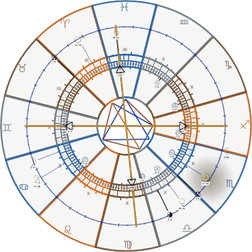
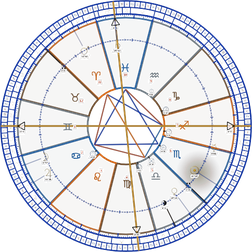
Astro Hellenic colorido: agora é o Astro Hellenic comum com cor (e não o reto)
Claude-Session: https://claude.ai/code/session_013ytyeKms5FAEPqSHvHBsyR

diff --git a/configuracoes.js b/configuracoes.js
@@ -186,7 +186,7 @@ function htmlCfgAparencia() {
         <div class="cfg-opcoes">
           ${opcao("salvarEstiloMandala('astrohellenic_reto')", estiloMandalaEscolhido === 'astrohellenic_reto', miniMandala('astrohellenic_reto'), 'Estilo Astro Hellenic', 'Faixa do zodíaco com os planetas dentro, linhas retas')}
           ${opcao("salvarEstiloMandala('comum')", estiloMandalaEscolhido === 'comum', miniMandala('comum'), 'Estilo comum', 'Signos e casas por dentro, planetas na eclíptica, régua de graus com termos e dodecatemória por fora')}
-          ${opcao("salvarEstiloMandala('astrohellenic_colorido')", estiloMandalaEscolhido === 'astrohellenic_colorido', miniMandala('astrohellenic_colorido'), 'Estilo Astro Hellenic colorido', 'O Astro Hellenic com cada signo pintado, em transparência, na cor do elemento')}
+          ${opcao("salvarEstiloMandala('astrohellenic_colorido')", estiloMandalaEscolhido === 'astrohellenic_colorido', miniMandala('astrohellenic_colorido'), 'Estilo Astro Hellenic colorido', 'O Astro Hellenic comum com cada signo pintado, em transparência, na cor do elemento')}
           ${opcao("salvarEstiloMandala('astrohellenic_comum')", estiloMandalaEscolhido === 'astrohellenic_comum', miniMandala('astrohellenic_comum'), 'Estilo Astro Hellenic comum', 'Faixa dos signos na eclíptica, signos por dentro, termos e dodecatemória por fora')}
           ${opcao("salvarEstiloMandala('astrohellenic')", estiloMandalaEscolhido === 'astrohellenic', miniMandala('astrohellenic'), 'Estilo Astro Hellenic Tracejado', 'O mesmo desenho, com divisas e eixos tracejados')}
           ${opcao("salvarEstiloMandala('frances')", estiloMandalaEscolhido === 'frances', miniMandala('frances'), 'Estilo francês', 'O desenho clássico: signos num anel por dentro, planetas por fora')}

diff --git a/roda.js b/roda.js
@@ -79,8 +79,8 @@ RODA_ESTILOS.astrohellenic_comum = Object.assign({}, RODA_ESTILOS.comum, {
   eclipticaTracejada: true        // só a linha da eclíptica é tracejada
 });
 
-/* "Astro Hellenic colorido": o Astro Hellenic (reto) com cada signo PINTADO, em transparência, na cor do seu elemento (do miolo até o arco de cima da faixa). */
-RODA_ESTILOS.astrohellenic_colorido = Object.assign({}, RODA_ESTILOS.astrohellenic_reto, {
+/* "Astro Hellenic colorido": o Astro Hellenic COMUM com cada signo PINTADO, em transparência, na cor do seu elemento (do miolo até o arco de cima da faixa). */
+RODA_ESTILOS.astrohellenic_colorido = Object.assign({}, RODA_ESTILOS.astrohellenic_comum, {
   nome: 'Estilo Astro Hellenic colorido',
   preenchimentoSigno: 0.2         // opacidade da cor do elemento por cima do papel/céu
 });

diff --git a/index.html b/index.html
@@ -1112,7 +1112,7 @@ body {
 <script src="matrizVisibilidade.js?v=20261010v"></script>
 <script src="tabelaTecnica.js?v=20261010t"></script>
 <script src="mandala.js?v=20261104j"></script>
-<script src="roda.js?v=20261104q"></script>
+<script src="roda.js?v=20261104r"></script>
 <script src="isopsefia.js?v=20261010t"></script>
 <script src="profeccao.js?v=20261104b"></script>
 <script src="sinastria.js?v=20261010t"></script>
